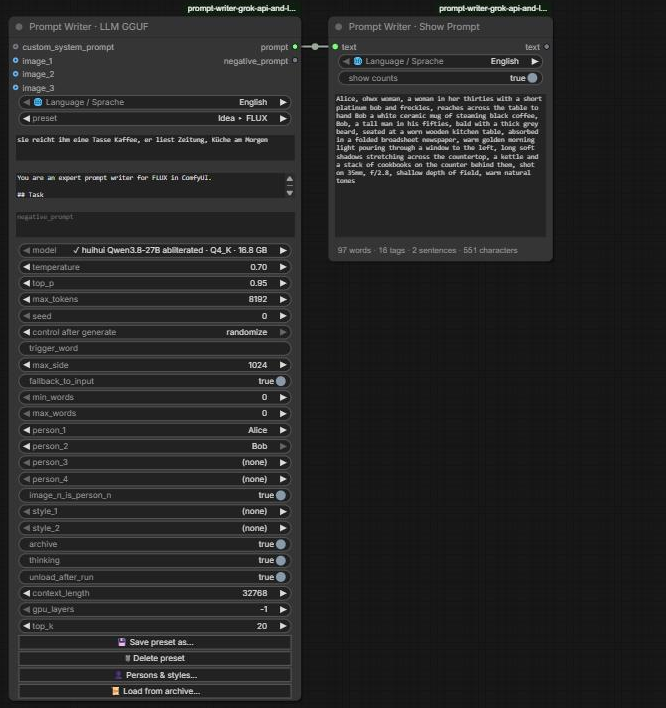
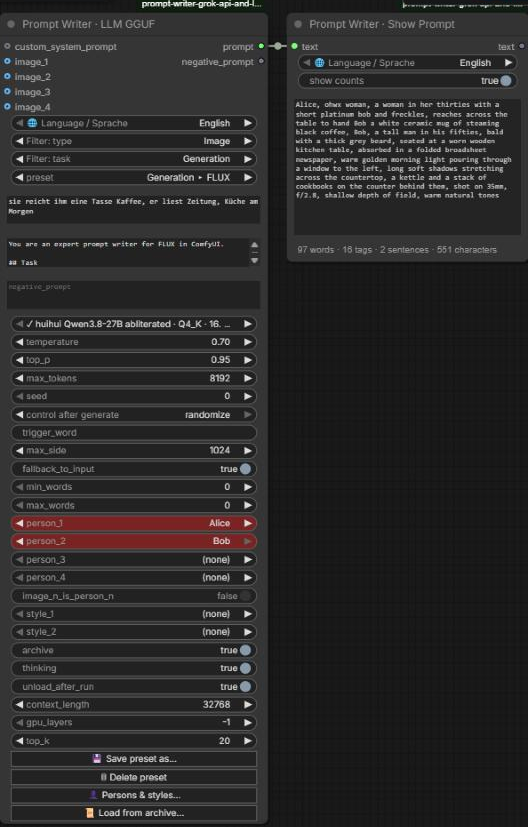
README and screenshots for 1.2.0
- New screenshots of both writer nodes, the tooltip and both dialogs with the
  filters, image_4, "Generation ▸" presets and the new voice note
- New screenshot of the preset list filtered to video generation presets
- README: image_n_is_person_n is off by default, the nodes start in English,
  the list's own search field, FLUX.2 API models in the target table

Changed region(s): [[0.0, 0.0, 1.0, 1.0], [0.303, 0.2797, 0.4242, 0.3107]]

diff --git a/README.md b/README.md
@@ -16,13 +16,17 @@ Both nodes share everything else:
 - **Your own persons and style blocks:** pick them from a local library and they appear in every prompt, with every action clearly assigned by name.
 - **Prompt archive:** every result can be found and reused later.
 - **Prompt Writer · Show Prompt** displays the result with a word count.
-- **English or German:** the nodes can be shown in either language. Hover over any option for a beginner-friendly explanation.
+- **English or German:** the nodes start in English and can be switched to German. Hover over any option for a beginner-friendly explanation.
 
 ## Screenshots
 
 ![Prompt Writer · Grok API with persons, a style block and Show Prompt](docs/images/nodes_overview.png)
 
-*Prompt Writer · Grok API turns a German idea into a FLUX prompt featuring two persons from the library. Show Prompt displays the result with its counts.*
+*Prompt Writer · Grok API turns a German idea into a FLUX prompt featuring two persons from the library. The filters above the preset list are set to image models and generation. Show Prompt displays the result with its counts.*
+
+![The preset list filtered to video models and generation](docs/images/preset_filter.png)
+
+*With "Filter: type" on Video and "Filter: task" on Generation, the preset list shows only the twelve video generation presets. The search field at the top of the list narrows it further as you type.*
 
 | Persons & style blocks | Prompt archive |
 |---|---|
@@ -94,7 +98,7 @@ The preset only labels the values. The node always runs with the values shown in
 - Type: All, Image, Edit, Video, Captions & tools, or My presets.
 - Task: All, Generation or Caption.
 
-The filters only change which presets the list shows. They never change the selected preset, which stays in the list even when it doesn't match, and they never re-run the node. The choice is kept per node in the workflow.
+The filters only change which presets the list shows. They never change the selected preset, which stays in the list even when it doesn't match, and they never re-run the node. The choice is kept per node in the workflow. Inside the opened list, ComfyUI's search field narrows it further, e.g. type "seedance".
 
 | Preset | What it does |
 |---|---|
@@ -117,7 +121,7 @@ The API presets write prompts for the ComfyUI partner nodes and other API servic
 | Qwen-Image 2.1 | Observer-style paragraph of about 400–500 words that walks through the frame and ends with "The overall composition …" | Official Qwen negative (Chinese). Ignored at CFG 1. |
 | Qwen-Image-Edit 2.1 | Edit instruction that refers to the inputs as `<image1>`…`<image3>`, plus one preservation clause | none (CFG 1) |
 | Z-Image | Long natural-language description; constraints phrased positively | Generic. Only used by Base; Turbo has no CFG. |
-| FLUX (FLUX.2 / FLUX.1) | Subject → action → style → context, 30–80 words | none (FLUX does not support negatives) |
+| FLUX (FLUX.2 [dev] / [klein], FLUX.2 [pro] / [max] / [flex] via API, FLUX.1) | Subject → action → style → context, 30–80 words | none (FLUX does not support negatives) |
 | Illustrious | Danbooru tags, quality tags first | Official Illustrious negative |
 | Pony | `score_9, score_8_up, …` + source and rating tags + short description + tags | Community standard |
 | SDXL | Short sentence + comma phrases, 30–75 words | Community standard |
@@ -186,9 +190,9 @@ Every target guide also ends with **an example of a good result**. It is marked 
   - After that, every pose, action, gaze and line of dialogue is attributed to a person by name, with no ambiguous "she" or "the woman" when several persons are present.
   - Tag models (Pony, Illustrious, SDXL) get the name first, then the trigger, then the description as tags.
 - **`image_n_is_person_n`** (off by default) pairs each person with the image input of the same number: `person_1` = `image_1`, `person_2` = `image_2`, `person_3` = `image_3`, `person_4` = `image_4`.
-  - Load a photo of the person into the matching image input, and the model takes the look from it.
+  - Turn it on and load a photo of the person into the matching image input, and the model takes the look from it.
   - With Qwen-Image-Edit (`<imageN>`), MiniMax H3 REF2VA (`<Picture N>`), Wan 2.7 / 3.0, Seedream and Seedance ("Image N"), Kling and Grok Imagine (`@ImageN`), GPT Image, Nano Banana and FLUX multi-reference, the prompt points at the image instead of describing the face.
-  - Turn it off when the images mean something else, e.g. the first and last frame of H3 FL2VA.
+  - Leave it off when the images mean something else, e.g. the first and last frame of a video or the input images of an edit. Workflows saved before 1.2.0 keep the setting they had (it used to be on by default).
 - **Export / Import** in the dialog moves the library between installs. On import you choose whether names that already exist are replaced or kept.
 - **Archive:** with `archive` on, every result is appended to `ComfyUI/user/grok_prompt_forge/archive.jsonl` together with its input, preset, persons and settings. **📜 Load from archive...** searches it:
   - *Use as text* puts an archived prompt into `text`.

diff --git a/CHANGELOG.md b/CHANGELOG.md
@@ -12,7 +12,7 @@
 - **Preset filters:** "Filter: type" (All, Image, Edit, Video, Captions & tools, My presets) and "Filter: task" (All, Generation, Caption) above the preset list. Display only: the selected preset is kept, nothing re-runs, and the choice is kept per node in the workflow.
 - `image_n_is_person_n` is now **off** for new nodes. Saved workflows keep their setting.
 - The nodes always start in **English**; German applies until the page is reloaded and is no longer remembered in the browser.
-- Tooltips, the persons' voice note and the README cover the new models.
+- Tooltips, the persons' voice note and the README cover the new models. The screenshots show 1.2.0, plus a new one of the filtered preset list.
 
 ## 1.1.0 — 2026-10-24
 
